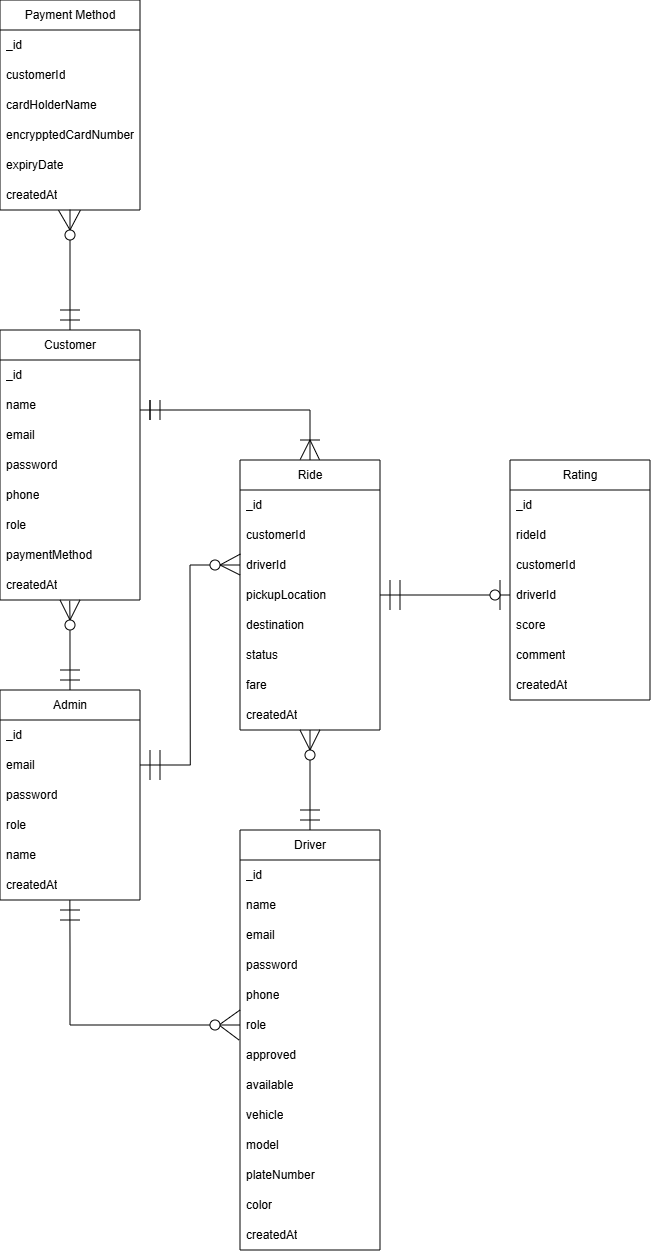
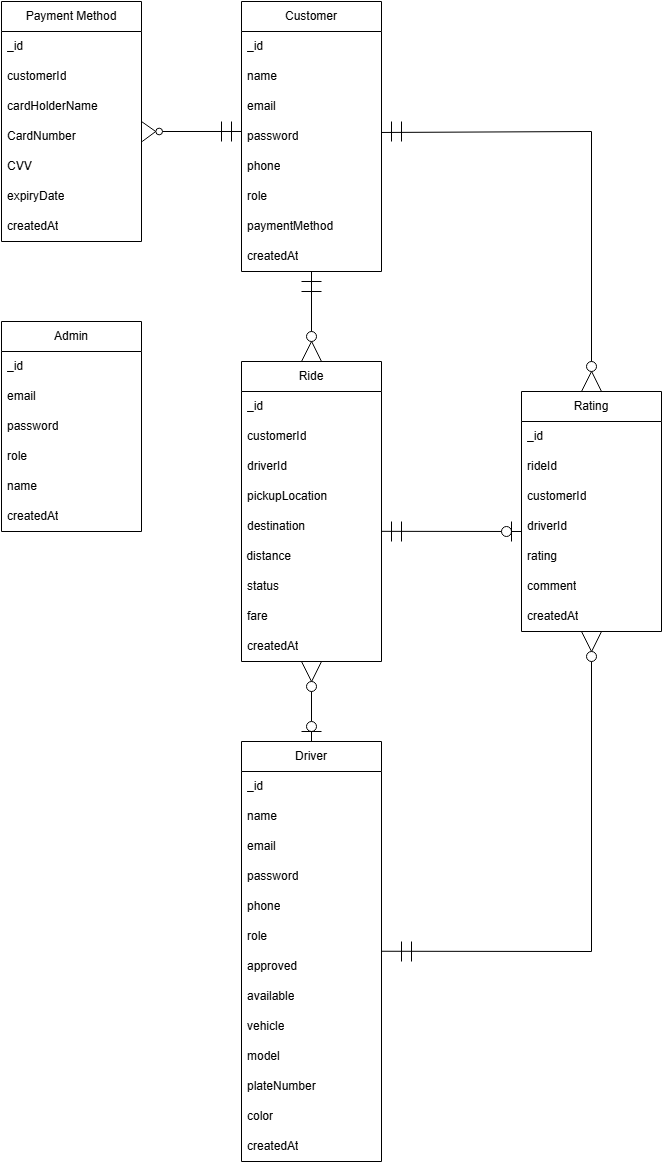
Update Images in README

diff --git a/README.md b/README.md
@@ -12,55 +12,16 @@ node -v
 npm -v
 ```
 
-## Week 7 Tasks
-
-## Part 1: Data Preparation
-### Inserted sample data for customers collection (Alice & Bob).
-![Driver Query Output](./images/customers.png)
-### Inserted sample data for rides collection (Alice & Bob).
-![Driver Query Output](./images/rides.png)
-
-
-## Part 2: Pipeline Design in MongoDB Compass
-### Built the 4-stage pipeline ($lookup, $unwind, $group, $project).
-#### Stage 1: $lookup
-![Driver Query Output](./images/stage1.png)
-
-#### Stage 2: $unwind
-![Driver Query Output](./images/stage2.png)
-
-#### Stage 3: $group
-![Driver Query Output](./images/stage3.png)
-
-#### Stage 4: $project
-![Driver Query Output](./images/stage4.png)
-
-### Execution of Pipeline (4 Stages)
-![Driver Query Output](./images/analyticcode.png)
-
-## Part 3: Node.js Implementation
-### Create API Endpoint in index.js to implement GET /analytics/passengers endpoint
-![Driver Query Output](./images/analyticcode.png)
-
-## Part 4: Postman Testing
-### Test with Postman using http://localhost:3000/analytics/passengers
-![Driver Query Output](./images/pipelineresult.png)
-
-## Part 5: Analytic Dashboard
-![Driver Query Output](./images/visualization.png)
-
-
 ### Generate Visualization Dashboard with Postman 
-![Driver Query Output](./images/Diagram_EFDdrawio.png)
 
-### DESIGN THE ERD Diagram
-![Driver Name Output](./images/Use_Case_Diagram.drawio.png)
 
 ### DESIGN THE USE CASE DIAGRAM
 ![Driver Name Output](./images/Use_Case_Diagram.drawio.png)
 
 ### DEFINE API SPECIFICATIONS
-![Driver Name Output](./images/Use_Case_Api_Specifications.png)
+![Driver Name Output](./images/api_specification_table.png)
 
-## MongoDB Data Model Structure
-![Driver Name Output](./images/34.png)
+### DESIGN THE ERD Diagram
+![Driver Query Output](./images/Diagram_EFDdrawio.png)
+
+## MongoDB Atlas Data Model Structure
